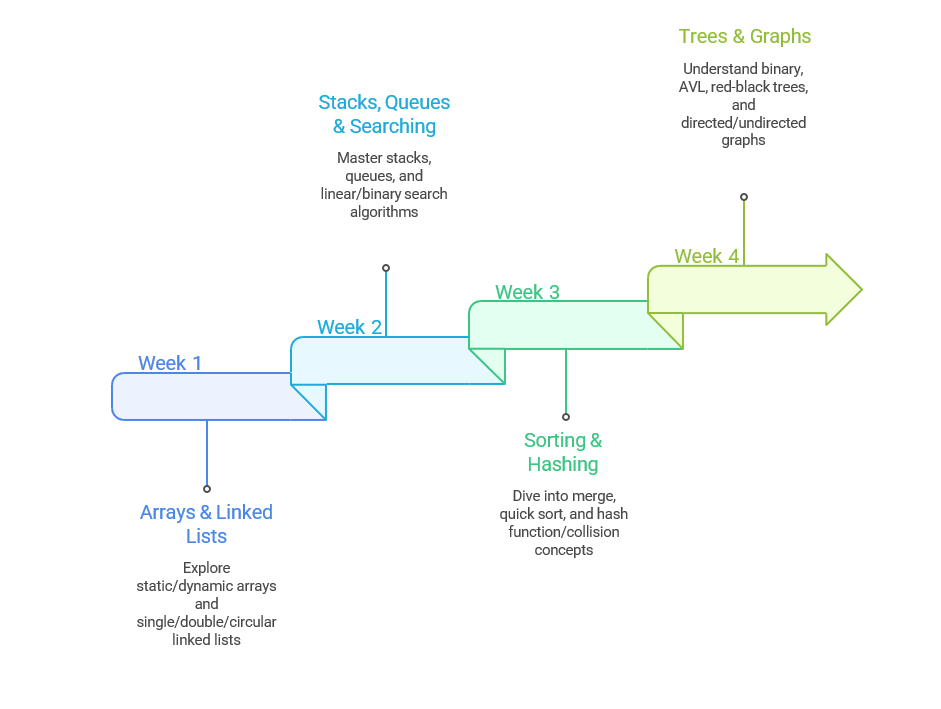
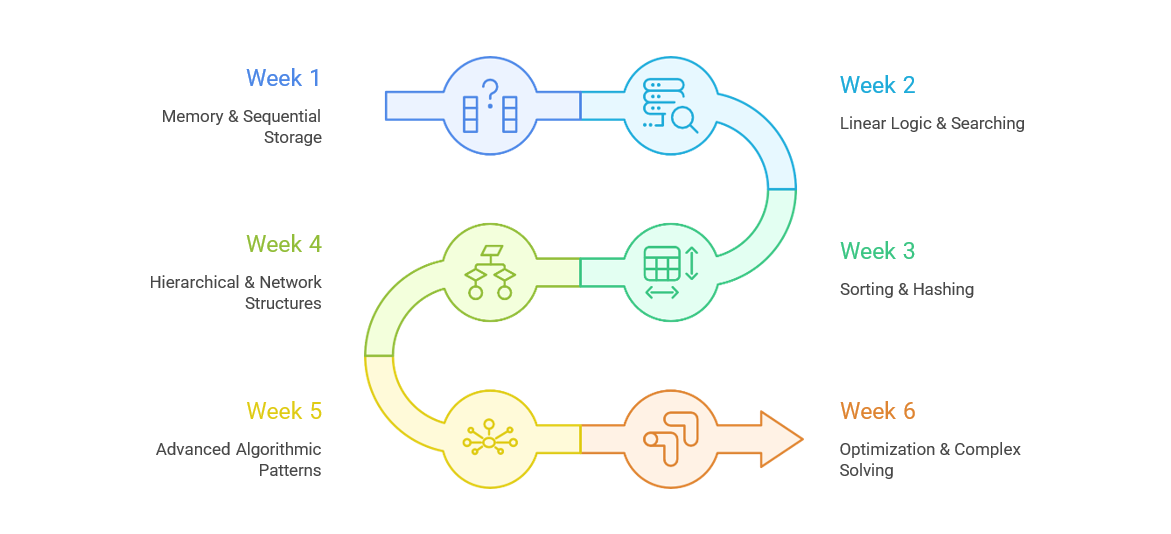
DSA minor chnges

diff --git a/frontend/src/pages/courses/MasteringDataStructures&Algorithms.jsx b/frontend/src/pages/courses/MasteringDataStructures&Algorithms.jsx
@@ -178,9 +178,9 @@ export default function DsaMlProgramPage() {
               real-world problem solving through structured projects and expert mentorship.
             </p>
 
-            <div className="grid grid-cols-2 sm:grid-cols-4 gap-4">
+            <div className="grid grid-cols-1 sm:grid-cols-3 gap-4 max-w-2xl mx-auto">
               <div className="rounded-xl border bg-white dark:bg-[var(--card-bg)] border-[#94BDFB] dark:border-[var(--border-primary)] p-4 text-center shadow-sm">
-                <div className="text-2xl font-extrabold text-[#3B82F6]">200+</div>
+                <div className="text-2xl font-extrabold text-[#3B82F6]">100+</div>
                 <div className="mt-3 text-sm text-[var(--text-color)]">DSA Problems</div>
               </div>
               <div className="rounded-xl border bg-white dark:bg-[var(--card-bg)] border-[#94BDFB] dark:border-[var(--border-primary)] p-4 text-center shadow-sm">
@@ -188,16 +188,12 @@ export default function DsaMlProgramPage() {
                 <div className="mt-1 text-sm text-[var(--text-color)]">Mentorship</div>
               </div>
               <div className="rounded-xl border bg-white dark:bg-[var(--card-bg)] border-[#94BDFB] dark:border-[var(--border-primary)] p-4 text-center shadow-sm">
-                <div className="text-2xl font-extrabold text-[#F59E0B]">10+</div>
-                <div className="mt-1 text-sm text-[var(--text-color)]">Projects</div>
-              </div>
-              <div className="rounded-xl border bg-white dark:bg-[var(--card-bg)] border-[#94BDFB] dark:border-[var(--border-primary)] p-4 text-center shadow-sm">
                 <div className="text-2xl font-extrabold text-[#22C55E]">Job</div>
                 <div className="mt-1 text-sm text-[var(--text-color)]">Readiness</div>
               </div>
             </div>
 
-            <div id="pioneer-enroll-form" className="w-full max-w-lg">
+            <div id="pioneer-enroll-form" className="w-full max-w-lg mx-auto">
               <div className="rounded-2xl border border-[var(--border-primary)] bg-[var(--card-bg)] p-6 shadow-[0_8px_32px_rgba(139,92,246,0.1)]">
                 <h3 className="text-xl font-bold mb-4">Enroll for Mastering Data Structures & Algorithms </h3>
                 <form onSubmit={handleSubmit} className="space-y-4">
@@ -303,8 +299,8 @@ export default function DsaMlProgramPage() {
               Curriculum Statistics
             </h2>
           </div>
-          <div className="grid grid-cols-1 sm:grid-cols-2 lg:grid-cols-3 gap-10">
-            <Item title="200+ DSA Problems" desc="From fundamentals to advanced techniques." />
+          <div className="grid grid-cols-1 sm:grid-cols-2 lg:grid-cols-3 gap-10 justify-items-center">
+            <Item title="100+ DSA Problems" desc="From fundamentals to advanced techniques." />
             <Item title="Interview Prep & Patterns" desc="Core patterns, complexity, and real interview drills." />
             <Item title="300+ Hours" desc="Structured learning focused entirely on DSA." />
           </div>
@@ -351,7 +347,7 @@ export default function DsaMlProgramPage() {
                   : "text-3xl md:text-4xl font-extrabold bg-gradient-to-r from-[#8B5CF6] via-[#EC4899] to-[#06B6D4] bg-clip-text text-transparent pb-1 md:pb-2"
               }
             >
-              Detailed Curriculum
+              Curriculum
             </h2>
           </div>
 
@@ -452,12 +448,8 @@ export default function DsaMlProgramPage() {
               <h3 className="text-lg font-bold mb-3 text-[var(--text-color)]">Arrays & Linked Lists</h3>
               <div className="grid grid-cols-2 sm:grid-cols-3 lg:grid-cols-6 gap-3 md:gap-4">
                 {[
-                  "C++ STL: vector",
-                  "C++ STL: list",
                   "Java: ArrayList",
                   "Java: LinkedList",
-                  "Python: list",
-                  "Python: array"
                 ].map((name) => (
                   <div key={name} className="flex items-center justify-center px-3 py-3 md:py-4 rounded-xl border border-[var(--border-primary)] bg-[var(--card-bg)] text-sm md:text-base font-semibold text-[var(--text-color)] text-center">
                     {name}
@@ -470,14 +462,8 @@ export default function DsaMlProgramPage() {
               <h3 className="text-lg font-bold mb-3 text-[var(--text-color)]">Stacks, Queues & Searching</h3>
               <div className="grid grid-cols-2 sm:grid-cols-3 lg:grid-cols-6 gap-3 md:gap-4">
                 {[
-                  "C++: stack",
-                  "C++: queue/deque",
-                  "C++: priority_queue",
                   "Java: Deque/Queue",
-                  "Java: PriorityQueue",
-                  "Python: collections.deque",
-                  "Python: heapq",
-                  "Python: bisect"
+                  "Java: PriorityQueue"
                 ].map((name) => (
                   <div key={name} className="flex items-center justify-center px-3 py-3 md:py-4 rounded-xl border border-[var(--border-primary)] bg-[var(--card-bg)] text-sm md:text-base font-semibold text-[var(--text-color)] text-center">
                     {name}
@@ -492,14 +478,9 @@ export default function DsaMlProgramPage() {
                   <h3 className="text-lg font-bold mb-3 text-[var(--text-color)]">Sorting & Hashing</h3>
                   <div className="grid grid-cols-2 sm:grid-cols-3 lg:grid-cols-6 gap-3 md:gap-4">
                     {[
-                      "C++: sort/stable_sort",
-                      "C++: unordered_map/set",
                       "Java: Arrays.sort",
                       "Java: Collections.sort",
-                      "Java: HashMap/HashSet",
-                      "Python: sorted",
-                      "Python: dict/set",
-                      "functools.cmp_to_key"
+                      "Java: HashMap/HashSet"
                     ].map((name) => (
                       <div key={name} className="flex items-center justify-center px-3 py-3 md:py-4 rounded-xl border border-[var(--border-primary)] bg-[var(--card-bg)] text-sm md:text-base font-semibold text-[var(--text-color)] text-center">
                         {name}
@@ -517,10 +498,8 @@ export default function DsaMlProgramPage() {
                   <h3 className="text-lg font-bold mb-3 text-[var(--text-color)]">Trees & Graphs</h3>
                   <div className="grid grid-cols-2 sm:grid-cols-3 lg:grid-cols-6 gap-3 md:gap-4">
                     {[
-                      "C++: set/map",
-                      "binarytree (Python)",
-                      "NetworkX",
-                      "Graphviz",
+                      "Set/map",
+                      "binarytree",
                       "Adjacency List/Matrix Utils"
                     ].map((name) => (
                       <div key={name} className="flex items-center justify-center px-3 py-3 md:py-4 rounded-xl border border-[var(--border-primary)] bg-[var(--card-bg)] text-sm md:text-base font-semibold text-[var(--text-color)] text-center">
@@ -745,13 +724,13 @@ export default function DsaMlProgramPage() {
               Unlock your AI potential with the GenAI program designed for your growth journey.
             </p>
           </div>
-          <div className="grid grid-cols-1 md:grid-cols-2 gap-6 md:gap-8">
+          <div className="grid grid-cols-1 md:grid-cols-2 gap-6 md:gap-8 max-w-5xl mx-auto justify-items-center">
             <Plan
-              name="DSA Track"
+              name="Mastering Data Structures & Algorithms"
               price="₹5,000"
               bullets={[
-                "4 weeks Structured Learning",
-                "200+ DSA Problems",
+                "6 weeks Structured Learning",
+                "100+ DSA Problems",
                 "Interview Prep",
                 "Mentorship & Reviews",
               ]}
@@ -765,7 +744,6 @@ export default function DsaMlProgramPage() {
                 "150+ Hours of Hands-On Workshops",
                 "10+ Industry-Grade Projects",
                 "300+ Hours of Structured Curriculum",
-                "30+ Industry-Aligned Assignments",
                 "AV Certificate | Fractal Certificate | WSU Certificate",
               ]}
             />
@@ -778,7 +756,7 @@ export default function DsaMlProgramPage() {
 
 function Item({ title, desc }) {
   return (
-    <div className="flex items-start gap-4">
+    <div className="flex flex-col items-center text-center gap-4">
       <span className="inline-flex items-center justify-center w-12 h-12 rounded-full bg-white/10 border border-white/20">
         <span className="w-6 h-6 rounded-full bg-gradient-to-br from-[#8B5CF6] to-[#EC4899]" />
       </span>
@@ -792,7 +770,7 @@ function Item({ title, desc }) {
 
 function Plan({ name, price, bullets }) {
   return (
-    <div className="rounded-2xl border border-[var(--border-primary)] bg-[var(--card-bg)] p-6 md:p-8 shadow-[0_8px_32px_rgba(139,92,246,0.12)]">
+    <div className="rounded-2xl border border-[var(--border-primary)] bg-[var(--card-bg)] p-6 md:p-8 shadow-[0_8px_32px_rgba(139,92,246,0.12)] mx-auto w-full max-w-md">
       <h3 className="text-2xl md:text-3xl font-bold text-[var(--text-color)] mb-2">{name}</h3>
       <div className="text-4xl md:text-5xl font-extrabold mb-6 text-[var(--text-color)]">{price}</div>
       <ul className="space-y-3 text-[var(--text-color)]">